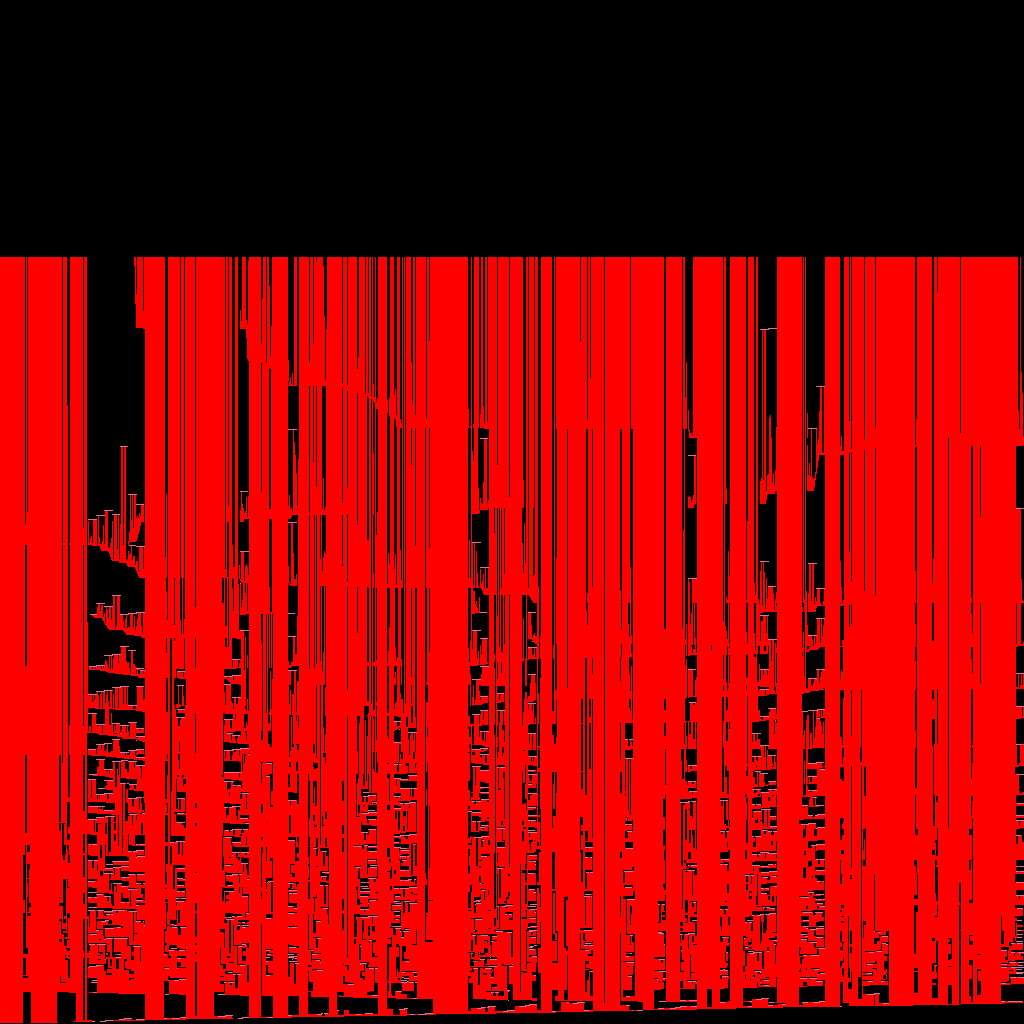
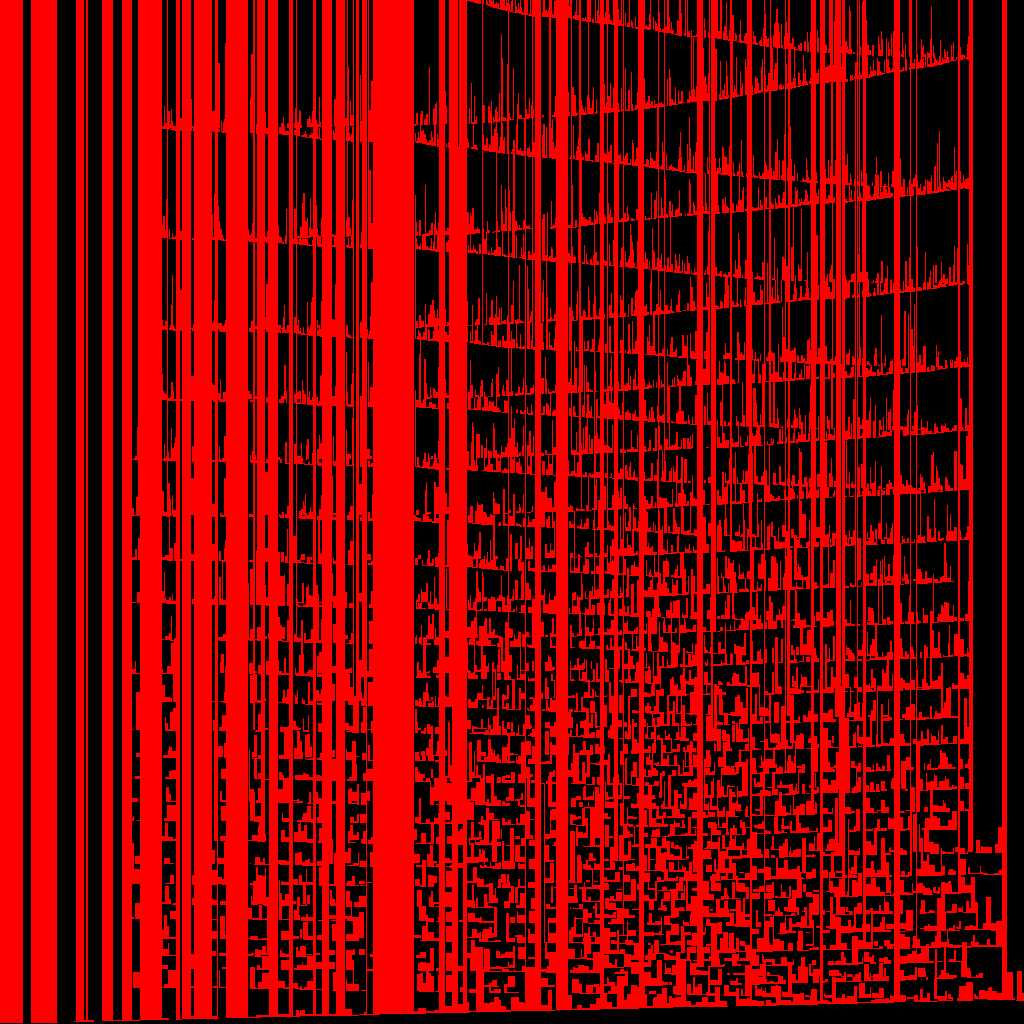
directional params

diff --git a/Suballocation/Suballocators/DirectionalBlockSuballocator.cs b/Suballocation/Suballocators/DirectionalBlockSuballocator.cs
@@ -39,7 +39,7 @@ public unsafe class DirectionalBlockSuballocator<TSeg, TTag> : ISuballocator<TSe
     {
         if (length <= 0) throw new ArgumentOutOfRangeException(nameof(length), $"Buffer length must be greater than 0.");
         if (blockLength <= 0 || blockLength > int.MaxValue) throw new ArgumentOutOfRangeException(nameof(blockLength), $"Block length must be greater than 0 and less than Int32.Max.");
-        
+
         Length = length;
         _blockLength = blockLength;
         _blockCount = length / blockLength;
@@ -146,10 +146,12 @@ public unsafe class DirectionalBlockSuballocator<TSeg, TTag> : ISuballocator<TSe
         // Decide which direction to search, based on current index distance from either end, and the amount of free space left on either side.
         bool directionForwardPrev = _directionForward;
         _directionForward = false;
-        var distanceFromCenter = ((_currentIndex + 1) / (double)_blockCount) - .5;
+        var distanceFromCenter = (((_currentIndex + 1) / (double)_blockCount) - .5) * 2;
         var balance = _freeBlockBalance / (double)_blockCount;
         var dir = directionForwardPrev ? 1 : -1;
-        if (balance * 1 + distanceFromCenter * .5 + dir * 1 >= 0) // TODO: Make configurable
+       // Console.WriteLine($"{balance}, {distanceFromCenter}, {dir}");
+        //distanceFromCenter = Math.Sign(distanceFromCenter) == Math.Sign(dir) ? distanceFromCenter : 0;
+        if (balance * 1.0 + distanceFromCenter * 0.0 + dir * 0.3 >= 0) // TODO: Make configurable
         {
             _directionForward = true;
         }
@@ -216,7 +218,7 @@ public unsafe class DirectionalBlockSuballocator<TSeg, TTag> : ISuballocator<TSe
 
             if (header.Occupied)
             {
-                if(AdvanceIndex() == false)
+                if (AdvanceIndex() == false)
                 {
                     segment = default;
                     return false;
@@ -324,17 +326,27 @@ public unsafe class DirectionalBlockSuballocator<TSeg, TTag> : ISuballocator<TSe
         Allocations--;
         Used -= blockCount * _blockLength;
 
-        // While we're here, see if we can combine the nearby free segments with this one.
+        if (blockIndex >= _currentIndex)
+        {
+            _freeBlockBalance += blockCount;
+        }
+        else
+        {
+            _freeBlockBalance -= blockCount;
+        }
+
+        // While we're here, see if we can combine the nearby free segments with this one. //
         long rangeStart = blockIndex;
         int rangeLength = blockCount;
 
         var nextIndex = blockIndex + header.BlockCount;
 
+        // Combine with next free segments
         while (nextIndex < _blockCount)
         {
             ref IndexEntry nextHeader = ref _index[nextIndex];
 
-            if (nextHeader.Occupied || header.BlockCount + nextHeader.BlockCount > int.MaxValue) 
+            if (nextHeader.Occupied || header.BlockCount + nextHeader.BlockCount > int.MaxValue)
             {
                 break;
             }
@@ -346,6 +358,7 @@ public unsafe class DirectionalBlockSuballocator<TSeg, TTag> : ISuballocator<TSe
             nextIndex += nextHeader.BlockCount;
         }
 
+        // Combine with previous free segments
         var prevPrevIndex = blockIndex;
         var prevIndex = blockIndex - header.BlockCountPrev;
 
@@ -375,27 +388,17 @@ public unsafe class DirectionalBlockSuballocator<TSeg, TTag> : ISuballocator<TSe
         }
 
         // If we combined free segments, then update the previous size of the next occupied segment
-        if(rangeLength != blockCount && rangeStart + rangeLength < _blockCount)
+        if (rangeLength != blockCount && rangeStart + rangeLength < _blockCount)
         {
             ref IndexEntry nextHeader = ref _index[rangeStart + rangeLength];
             nextHeader = nextHeader with { BlockCountPrev = rangeLength };
         }
 
+        // If we are in the middle of a larger combined free segment, then move the head.
         if (_currentIndex > rangeStart && _currentIndex < rangeStart + rangeLength)
         {
             _freeBlockBalance += (_currentIndex - rangeStart) << 1;
             _currentIndex = rangeStart;
-        }
-        else
-        {
-            if (rangeStart >= _currentIndex)
-            {
-                _freeBlockBalance += blockCount;
-            }
-            else
-            {
-                _freeBlockBalance -= blockCount;
-            }
         }
 
         return true;

diff --git a/PerfTest/Program.cs b/PerfTest/Program.cs
@@ -3,19 +3,6 @@ using Suballocation.Suballocators;
 
 namespace PerfTest;
 
-//https://docs.microsoft.com/en-us/archive/msdn-magazine/2000/december/garbage-collection-part-2-automatic-memory-management-in-the-microsoft-net-framework 
-// The newer an object is, the shorter its lifetime will be.
-// The older an object is, the longer its lifetime will be.
-// Newer objects tend to have strong relationships to each other and are frequently accessed around the same time.
-// Compacting a portion of the heap is faster than compacting the whole heap.
-
-//me
-// The larger an object is, the longer its lifetime will be.
-// The larger an object is, the larger the acceptable update window / placement distance.
-// Less fragmentation if segment is near similar-sized segments?
-// Larger objects near center will hurt locality
-// Objects near edges may be re-traversed more quickly (and skipped over).
-
 //todo:
 // Sampling strategy. 
 // OptimizeHead()
@@ -48,7 +35,7 @@ public partial class Program
         }
 
         // Run a test for each suballocator.
-        /*{
+        {
             string tag = "Random Short";
 
             var results =
@@ -68,7 +55,7 @@ public partial class Program
                             youthReturnFactor: .5,
                             updateWindowFillPercentage: .21,
                             updatesPerWindow: 1,
-                            defragment: false,
+                            defragment: true,
                             fragmentBucketLength: 128))
                     .ToList();
 
@@ -78,7 +65,7 @@ public partial class Program
             results.ShowPatternImages();
 
             Console.ReadKey();
-        }*/
+        }
 
         // Run a test for each suballocator.
         {
@@ -94,14 +81,14 @@ public partial class Program
                             suballocator: suballocator,
                             seed: 0,
                             imageWidth: _imageWidth, imageHeight: _imageHeight,
-                            totalLengthToRent: 33_000_000,
+                            totalLengthToRent: 33_000_000 * 4,
                             minSegmentLenInitial: 1, minSegmentLenFinal: 1,
                             maxSegmentLenInitial: 65536 * 1, maxSegmentLenFinal: 32,
-                            desiredFillPercentage: .9,
+                            desiredFillPercentage: .6,
                             youthReturnFactor: .5,
                             updateWindowFillPercentage: .21,
                             updatesPerWindow: 10,
-                            defragment: true,
+                            defragment: false,
                             fragmentBucketLength: 65536))
                     .ToList();
 
